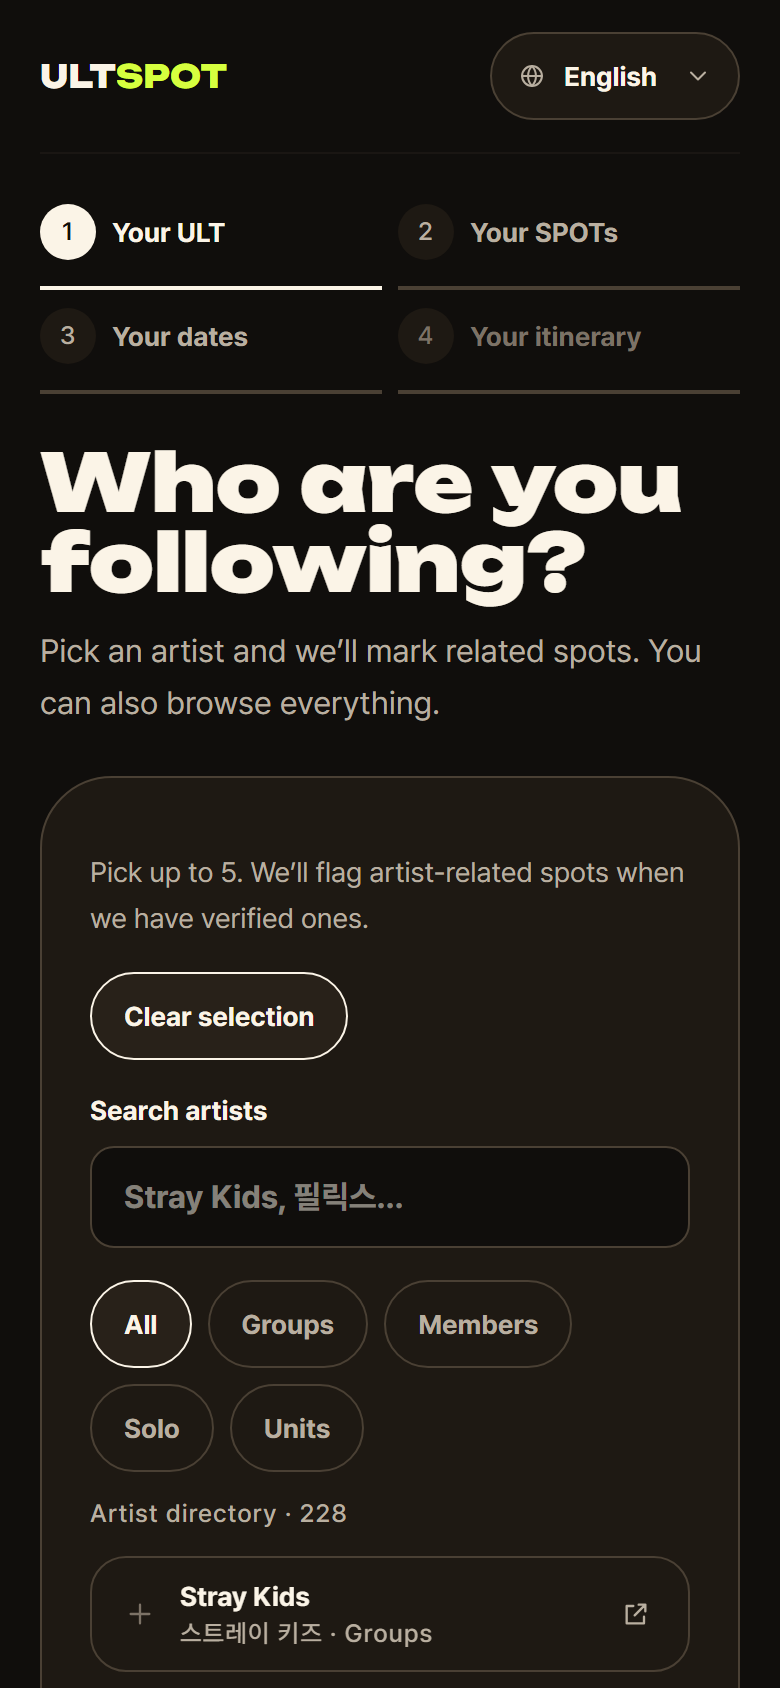
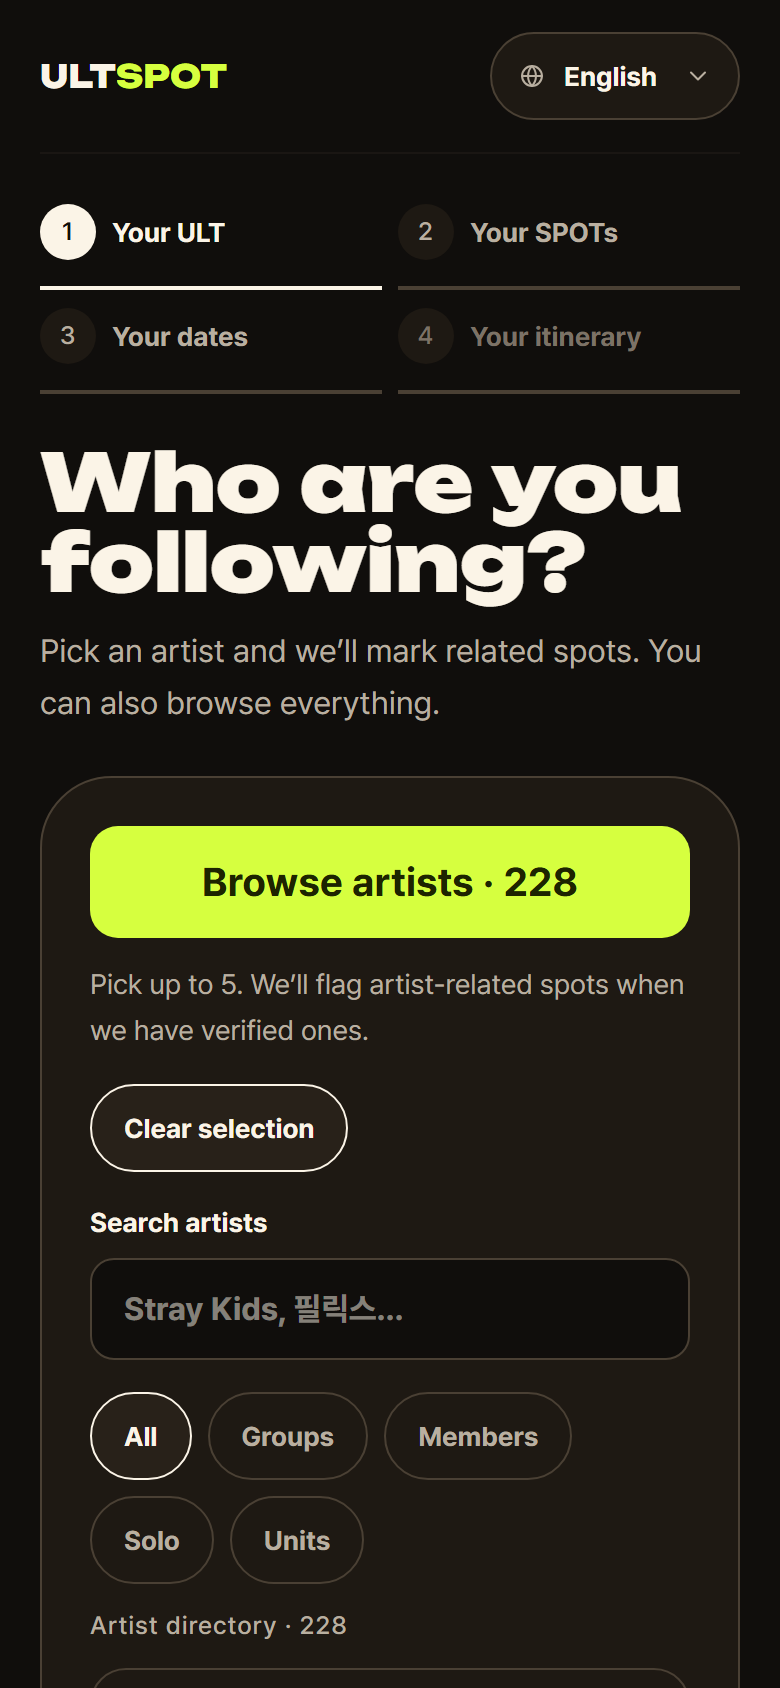
feat(artists): 검색을 유지한 아티스트 선택 모달 추가
왜: 등록 아티스트를 별도 목록에서 둘러보고 선택할 수 있게 한다. native dialog로 초점과 Escape 동작을 제공한다.

하지 않은 것: 기존 검색 제거와 데이터 변경. 선택은 부모 상태에 유지한다.

검증: 프로덕션 빌드/타입/lint 통과. 목록과 모달 및 검색 저장 복원 12건 통과, 모달 3개 뷰포트 직접 확인.

diff --git a/src/components/favorite-step.tsx b/src/components/favorite-step.tsx
@@ -1,5 +1,7 @@
 "use client";
 
+import { useRef } from "react";
+import { directoryCopy } from "@/i18n/artist-directory";
 import { Button } from "@/components/ui";
 import { ArrowRightIcon, CheckIcon } from "@/components/icons";
 import { ArtistPicker } from "@/components/artist-picker";
@@ -21,6 +23,8 @@ export function FavoriteStep({ selected, onChange, onNext }: {
   onNext: () => void;
 }) {
   const { locale, t } = useI18n();
+  const dialog = useRef<HTMLDialogElement>(null);
+  const copy = directoryCopy[locale];
   const picked = artists.filter(a => selected.includes(a.id));
   const name = (id: string) => {
     const artist = artists.find(a => a.id === id);
@@ -36,6 +40,14 @@ export function FavoriteStep({ selected, onChange, onNext }: {
   return (
     <section aria-label={t.steps.labels[0]} className="grid gap-6 lg:grid-cols-[minmax(0,1fr)_20rem] lg:gap-10">
       <div className="min-w-0 rounded-device border border-line-strong bg-surface p-6 sm:p-8">
+        <Button block size="lg" onClick={() => dialog.current?.showModal()}>{copy.browse} · {artists.length}</Button>
+        <dialog ref={dialog} aria-label={copy.browse} className="fixed inset-0 m-auto max-h-screen w-full max-w-3xl overflow-y-auto rounded-device border border-line-strong bg-surface p-6 text-text backdrop:bg-bg/80 sm:p-8">
+          <div className="sticky top-0 z-10 flex items-center justify-between gap-4 bg-surface pb-4">
+            <h2 className="text-subhead">{copy.browse}</h2>
+            <Button onClick={() => dialog.current?.close()}>{copy.done} · {selected.length}/5</Button>
+          </div>
+          <ArtistPicker selected={selected} onChange={onChange} />
+        </dialog>
         <ArtistPicker selected={selected} onChange={onChange} />
       </div>
 

diff --git a/src/i18n/artist-directory.ts b/src/i18n/artist-directory.ts
@@ -1,6 +1,6 @@
 export const directoryCopy = {
- ko: { collected: '수집 자료', title: '등록된 아티스트', all: '전체', group: '그룹', member: '멤버', solo: '솔로', unit: '유닛', reset: '선택 초기화' },
- en: { collected: 'Collected listing', title: 'Artist directory', all: 'All', group: 'Groups', member: 'Members', solo: 'Solo', unit: 'Units', reset: 'Clear selection' },
- ja: { collected: '収集資料', title: '登録アーティスト', all: 'すべて', group: 'グループ', member: 'メンバー', solo: 'ソロ', unit: 'ユニット', reset: '選択を解除' },
- zh: { collected: '收集资料', title: '已收录艺人', all: '全部', group: '组合', member: '成员', solo: '个人', unit: '小分队', reset: '清除选择' },
+ ko: { browse: '아티스트 둘러보기', done: '선택 완료', collected: '수집 자료', title: '등록된 아티스트', all: '전체', group: '그룹', member: '멤버', solo: '솔로', unit: '유닛', reset: '선택 초기화' },
+ en: { browse: 'Browse artists', done: 'Done', collected: 'Collected listing', title: 'Artist directory', all: 'All', group: 'Groups', member: 'Members', solo: 'Solo', unit: 'Units', reset: 'Clear selection' },
+ ja: { browse: 'アーティスト一覧', done: '完了', collected: '収集資料', title: '登録アーティスト', all: 'すべて', group: 'グループ', member: 'メンバー', solo: 'ソロ', unit: 'ユニット', reset: '選択を解除' },
+ zh: { browse: '浏览艺人', done: '完成', collected: '收集资料', title: '已收录艺人', all: '全部', group: '组合', member: '成员', solo: '个人', unit: '小分队', reset: '清除选择' },
 };

diff --git a/e2e/artists.spec.ts b/e2e/artists.spec.ts
@@ -24,7 +24,7 @@ test('artist favorites search, save and restore with an honest general-place fal
   const results = page.getByRole('list', { name: 'Search results' });
   // 최애 고르기가 첫 단계다 (T-029). 펼치는 동작 없이 바로 보인다.
   await results.getByRole('button', { name: /^BLACKPINK / }).click();
-  await page.getByLabel('Search artists', { exact: true }).fill('필릭스');
+  await page.getByRole('textbox', { name: 'Search artists', exact: true }).fill('필릭스');
   await results.getByRole('button', { name: 'Felix' }).click();
   await page.getByRole('button', { name: 'Find their spots' }).click();
   await expect(page.getByText('No verified spots for', { exact: false })).toBeVisible();
@@ -43,7 +43,7 @@ test('artist favorites search, save and restore with an honest general-place fal
   await expect(page.getByRole('button', { name: 'Remove Felix', exact: true })).toBeVisible();
   await page.getByRole('button', { name: 'Clear selection' }).click();
   await expect(page.getByRole('button', { name: 'Remove Felix', exact: true })).toHaveCount(0);
-  await page.getByLabel('Search artists', { exact: true }).fill('unlisted-name');
+  await page.getByRole('textbox', { name: 'Search artists', exact: true }).fill('unlisted-name');
   await expect(page.getByRole('status').filter({ hasText: 'verified selection' })).toBeVisible();
   expect(await page.evaluate(() => document.documentElement.scrollWidth <= innerWidth)).toBe(true);
 });

diff --git a/e2e/artist-directory.spec.ts b/e2e/artist-directory.spec.ts
@@ -18,3 +18,22 @@ test('browse artists without searching and keep selection across filters', async
  await nav.getByRole('button', { name: 'All', exact: true }).click();
  await expect(list.getByRole('listitem')).toHaveCount(artists.length);
 });
+
+test('artist modal lists entries, preserves picks and closes with Escape', async ({ page }, info) => {
+ await page.goto('/plan');
+ const open = page.getByRole('button', { name: /Browse artists/ });
+ await open.click();
+ const modal = page.getByRole('dialog', { name: 'Browse artists' });
+ await expect(modal).toBeVisible();
+ await expect(modal.getByRole('listitem')).toHaveCount(artists.length);
+ await modal.getByRole('button', { name: /^Seungmin / }).click();
+ await expect(modal.getByRole('button', { name: 'Done · 1/5' })).toBeVisible();
+ if (process.env.CAPTURE_TASK === 'T-041') await page.screenshot({ path: `docs/tasks/T-041/screenshots/modal-${info.project.name}.png` });
+ await page.keyboard.press('Escape');
+ await expect(modal).not.toBeVisible();
+ await expect(open).toBeFocused();
+ await open.click();
+ await expect(modal.getByRole('button', { name: /^Seungmin / })).toHaveAttribute('aria-pressed', 'true');
+ await modal.getByRole('button', { name: 'Done · 1/5' }).click();
+ await expect(modal).not.toBeVisible();
+});

diff --git a/docs/tasks/T-041/README.md b/docs/tasks/T-041/README.md
@@ -12,3 +12,8 @@
 최신 incoming/artists.csv 228개를 이름·ID·유형·출처 중심으로 연결했다. 기존 검수 11개는 우선 유지한다. 수집 항목에는 수집 자료 표시를 붙이고 생일 미확인 값은 가져오지 않는다. 현재 관계의 부모 ID가 유일한 경우만 연결한다. 원본 CSV와 개인정보/내부 수집 메모는 공개 번들에 포함하지 않는다.
 
 최신 연결 검증: 수집 228개(그룹 42, 개인 167, 유닛 19), 중복 ID 0, 없는 부모 참조 0. 목록/필터 3건 및 검색·저장·복원 6건 통과. 추가 멤버 때문에 기존 테스트의 BLACKPINK 선택자가 중복되어 그룹으로 한정한 뒤 재통과. 긴 목록은 화면 높이 이내에서 스크롤한다.
+
+## 선택 모달
+아티스트 둘러보기 버튼으로 228개 목록 모달을 열 수 있다. 기존 전체 탐색도 유지한다. native dialog의 모달 포커스/배경 비활성/Esc 닫기를 사용하며 선택은 부모 상태에 보존한다. 완료 버튼에 선택 수를 표시한다.
+
+모달 최종 검증: 3개 뷰포트에서 열기/선택/닫기/Esc/초점 복귀/선택 유지 통과. 전체 탐색 및 검색·저장·복원 포함 고유 테스트 12건 통과. 숨겨진 모달 입력과 중복되던 테스트 선택자를 보이는 textbox 역할로 좁혀 재통과. 모달 캡처 3장 직접 확인.
